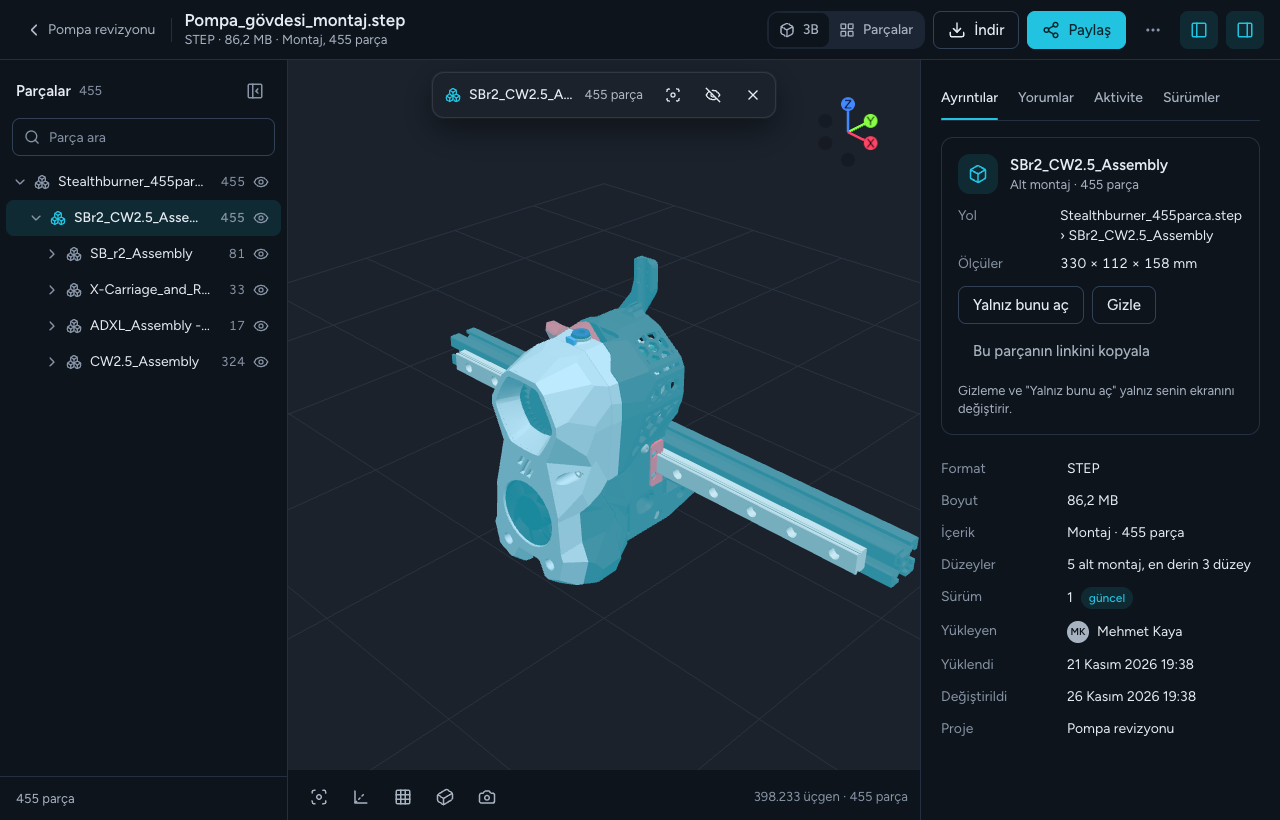
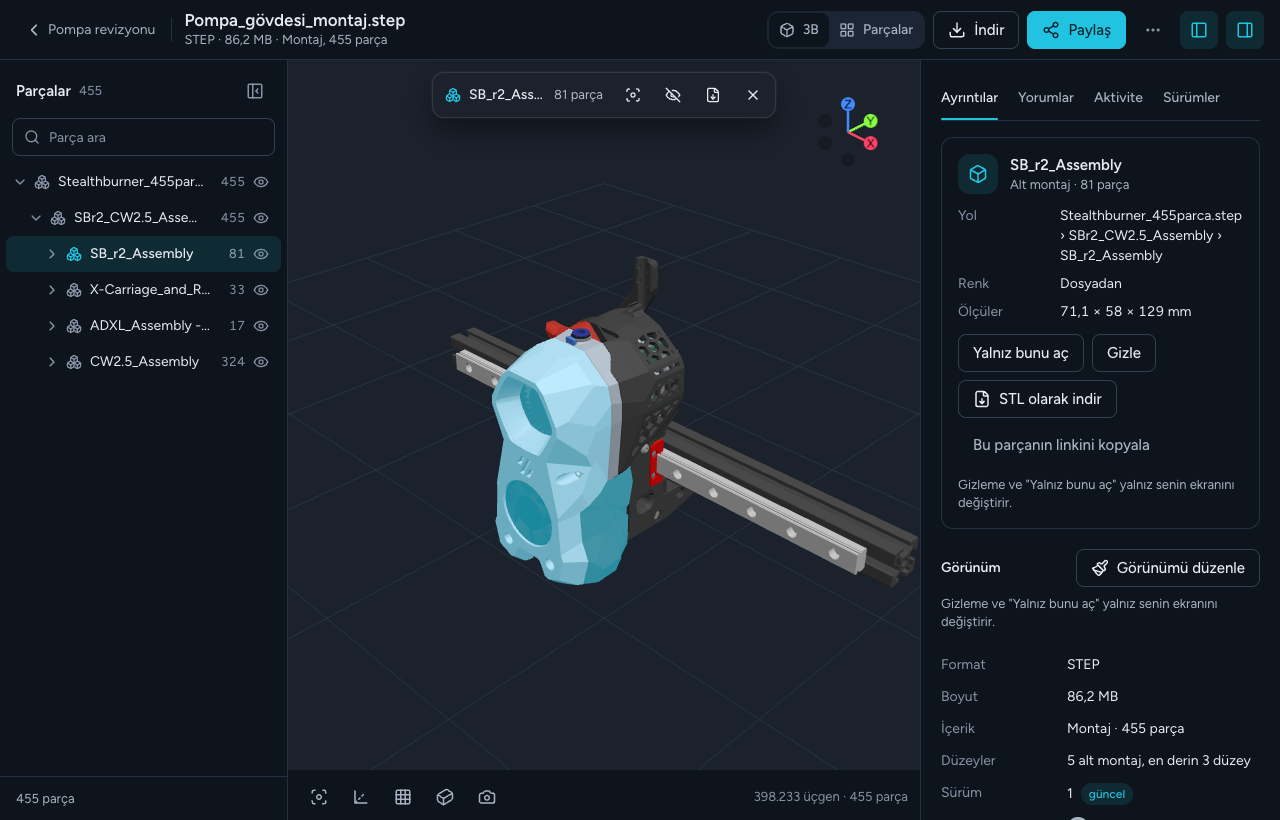
Faz 5c-2: no tint while editing, phone reason visible, screenshots, implementation notes

diff --git a/src/app/files/FileDetailPage.tsx b/src/app/files/FileDetailPage.tsx
@@ -315,7 +315,9 @@ export const FileDetailPage = () => {
     () => new Set([...[...sceneHidden].filter((path) => !localShown.has(path)), ...localHidden]),
     [sceneHidden, localHidden, localShown],
   )
-  const view = useMemo<StudioView>(() => ({ selected, isolated, hidden, looks }), [selected, isolated, hidden, looks])
+  // In scene prep the selection is not tinted: the editor must see the colour being chosen.
+  const tinted = editing ? null : selected
+  const view = useMemo<StudioView>(() => ({ selected: tinted, isolated, hidden, looks }), [tinted, isolated, hidden, looks])
   const studio = useMemo(
     () => ({ view, api, onOutline: setOutline, onPick: setSelected, onReady: setModelReady }),
     [view],
@@ -769,7 +771,7 @@ export const FileDetailPage = () => {
           {t('studio.edit.open')}
         </Button>
       </div>
-      <p className="text-sm text-text-2">{t('studio.local')}</p>
+      <p className="text-sm text-text-2">{editReason !== null && !wide ? editReason : t('studio.local')}</p>
     </section>
   ) : null
 

diff --git a/docs/11-viewer-design.md b/docs/11-viewer-design.md
@@ -451,3 +451,34 @@ Branch `rewrite-faz5c` (5c-1) ve `rewrite-faz5c-2` (5c-2), 27 Kasım 2026. Göre
 2. **Telefonda "Daha" menüsü yok:** 5c'de telefon araç çubuğu Parçalar + mevcut 5a araçları (sığdır, görünümler, tel kafes, kenarlar, ekran görüntüsü). Kesit, Ölçü, Yorum 5d'de gelince B5 sırasına ve "Daha"ya geçilir (henüz olmayan araç gösterilmez, 03 §6).
 3. **Klasör görünümü açık model ister:** ağaç GLB'den okunur; model hazır olmadan Parçalar görünümünde görüntüleyicinin kendi durumu (yükleniyor, hata) gösterilir.
 4. **Tek alt montajlı sarmalayıcı** (CAD dışa aktarımlarında yaygın; Stealthburner'da kök → `SBr2_CW2.5_Assembly`) klasör görünümünde atlanır ve ağaçta açık gelir; yol çubuğundan üst düzeye çıkılabilir.
+
+### 5c-2 · Yapılanlar
+
+- **Migration `0016_scenes`** (yalnız `CREATE TABLE` + `CREATE INDEX`; `check-migrations` geçiyor; 6a numarayı değiştirebilir): `file_scenes` (`id`, `workspaceId` + `fileId` → `files(workspaceId, id)` bileşik FK **CASCADE**, `modelR2Key`, `revision ≥ 1`, `body` ≤ 131.072 karakter CHECK, `updatedByUserId` SET NULL, `updatedAt`; `UNIQUE(fileId, modelR2Key)`, `(fileId, updatedAt)` dizini). Test: `migration0016.test.ts` (eski satırlar aynen, kısıtlar, dosya silinince kayıt gider). Staging'e **uygulanmadı** (bu iş uzak D1 komutu içermiyordu): `pnpm db:migrate:staging` ile uygulanmalı.
+- **Gövde şeması** (`server/scene.ts`, sınırlar `shared/scene.ts`): `v: 1`, `nodes` (yol anahtarı §1.3 kuralıyla, ≤ 2000 giriş; `name` 1–200, `color` küçük harf `#rrggbb`, `finish` matte/satin/metal, `hidden: true`, `at` ad yolu ≤ 1024), `views` (kamera vektörleri sonlu, fov 1–179, ≤ `Entitlements.savedViewsPerScene` = 20). HTTP'de fazla alan 400.
+- **Programlar** (`programs/scenes.ts`): `getScene` (`preview`; bu modelin kaydı; kayıt yoksa ve kişi `edit` ise dosyanın başka modeline ait en yeni kayıt + sürüm numarası, §3.3), `putScene` (`edit`; açık sürüm numarası tutmazsa `VersionChanged`; `revision` 0 = ilk yazım, eskiyse `SceneConflict` 409 ve hiçbir şey yazılmaz; tek batch: rol + dosya yerinde + aynı model (kaynak ve GLB anahtarı) + revizyon guard'ı, yazım, artık hiçbir satırın tutmadığı modellerin kayıtlarının budanması, `scene.updated` aktivitesi dosya başına 10 dakikada en çok bir). Uç: `GET/POST /api/files/{id}/scene` (`http/files.ts`, POST CSRF + Schema, gövde sınırı 129 KiB). Testler `scenes.test.ts` (7) ve `files.test.ts`'e uç senaryosu.
+- **İstemci mantığı** (`viewer/tree/scene.ts`, saf): kayıttan görünüşler, gizliler, adlar; seyrek düzenleme (boşalan giriş silinir, her girişe `at` yazılır); ad yolu eşleme (`matchPrevious`). Test `scene.test.ts`.
+- **Uygulama:** kayıt her 3B modelde okunur ve herkes için uygulanır (adlar ağaçta ve klasör görünümünde, renk ve yüzey modelde, kalıcı gizliler). B2: kişinin gözü kaydın gizlediğini yalnız kendi ekranında gösterebilir ("Tümünü göster" de); hiçbir şey yazılmaz.
+- **Sahne hazırlama** (masaüstü, `edit` + modelin anahtarı var): sağ panelde "Görünüm · Görünümü düzenle" → üstte mod bandı ("Görünümü düzenliyorsun…", kayıt durumu, Bitti), sağ panel sekmeler yerine düzenleme paneli: Ad (dosyadaki adı altında), 12 renk + kod alanı + "Dosyadaki renge dön", Yüzey Mat/Saten/Metal, Görünür anahtarı (kalıcı gizleme). Değişiklik hemen uygulanır, son değişiklikten 1,5 s sonra kaydedilir, aynı anda tek istek; yolda değişiklik gelirse arkasından gider. Düzenleme sırasında seçim vurgusu kapalı (seçilen renk görünsün). `SceneConflict`: kaydetme durur, uyarı bandı "Başkası bu görünümü değiştirdi…" + "Yeniden yükle" (güncel kayıt okunur, kaydedilmemiş değişiklik atılır). `VersionChanged`: "Bu dosyanın yeni sürümü geldi" + "Sayfayı yenile".
+- **Yeni sürümde eşleme bandı** (masaüstü, `edit`): "Önceki sürümün (Sürüm N) renk ve adları uygulansın mı? X parça eşleşti, Y eşleşmedi…" + Eşleşmeyenler (liste) + Yoksay + Uygula. Uygula eşleşen girişleri yeni modelin kaydı olarak yazar; Yoksay boş kayıt yazar (bant bir daha sorulmaz).
+- **STL parça indirme (B7):** seçim çubuğunda, seçim kartında ve klasör kartı menüsünde. Pencere: üçgen sayısı, tahmini boyut, birim (mm), Konum "Montajdaki yerinde" (varsayılan) / "Kendi merkezinde", dürüst not, İndir. Yazıcı `scene/stl.ts` ayrı tembel chunk (1,3 KB), ikili STL, Z-yukarı dosya eksenleri; gizli alt parçalar dahil. Yalnız `download` ve masaüstü; aksi halde devre dışı + neden.
+- **Telefon (§4.4):** kayıt uygulanmış görünür; "Görünümü düzenle" ve "STL olarak indir" devre dışı, neden yazılı ("…masaüstünde açın"); eşleme bandı yok.
+- Ölçüm: görüntüleyici chunk'ı **157 KB** gzip (bütçe 160). Testler: `pnpm check` 98 dosya. Ekran görüntüleri `design/ui-shots/assembly/` `edit`, `match`, `stl` (1280, açık/koyu), `phone-scene` (390).
+
+### 5c-2 · Sapmalar
+
+1. **Yazma ucu `POST`**, `PUT` değil: CSRF sınırı (`checkMutationRequest`) yalnız POST kabul ediyor; ayrı bir PUT yolu açmak yerine aynı sınır kullanıldı.
+2. **`derivativeR2Key` yerine `modelR2Key`:** STL/OBJ/PLY'nin türevi yok; kayıt `model` ucunun sunduğu nesneye bağlanır (STEP/IGES/3MF'de GLB, diğerlerinde kaynak). GLB'si olmayan STEP'in (yerinde çevrilen) kaydı yok; GLB saklanınca düzenlenebilir.
+3. **Girişlerde `at` (ad yolu):** eşleme eski modelin GLB'sini indirmeden yapılabilsin diye her giriş yazıldığı anki ad yolunu taşır. `at`'si olmayan giriş eşleşmemiş sayılır. Kayıtlı görünümler eşlemede taşınmaz.
+4. **`409` gövdesinde güncel kayıt yok:** `respond.ts` hata gövdesine veri koymuyor; istemci "Yeniden yükle"de `GET` ile okur.
+5. **Kayıt budaması:** dosya kalıcı silinince satırlar CASCADE ile gider. Yeniden üretilen GLB'nin eski kaydı (hiçbir satır o anahtarı tutmuyor) ilk yeni yazımda silinir; eski sürümün kaydı, anlık görüntüsü durdukça eşleme kaynağı olarak kalır.
+6. **Ağaçta yerinde ad değiştirme yok:** ad, panelin Ad alanından değişir (tel kafesteki ağaç içi alan yerine; tek giriş yolu).
+7. **Kayıtlı görünümler arayüzü 5d'de:** şema ve sınır hazır; kaydetme/uygulama kesit aracıyla birlikte gelir (panelde not var).
+
+### Açık kalanlar
+
+- **Staging kabulü** (455 parçalı montajda klasör gezinme + renk kaydı + yeni sürümde eşleme) yapılmadı: `0016` staging D1'e uygulanmadı, Worker dağıtılmadı. Sıra: `pnpm db:migrate:staging`, staging dağıtımı, `scripts/shoot-assembly.cjs` ile tekrar.
+- **Paylaşılan link sayfası** sahne kaydını henüz uygulamıyor (`/s/{token}/scene` ucu yok); misafir ve üye dosya sayfasında uygulanmış görür. 5d'de paylaşılan sayfa araçlarıyla birlikte eklenmeli.
+- **CPU ölçümü (§3.1):** 2000 girişlik gövdenin Schema doğrulaması staging'de ölçülmedi.
+- **A3 ölçümü:** parça küçük resmi yerelde (M serisi, GPU) Stealthburner'ın 4 alt montajında kare başına bir çizimle anlık; 455 parçalık tek düzeyde ve orta sınıf cihazda ölçülmedi. Yavaş kalırsa atlas (A3) ya da yalnız görünür kartlar.
+- Seçme BVH'sız (5c-1 sapması 1); §6 "< 5 ms" ölçümü 5d'de.
